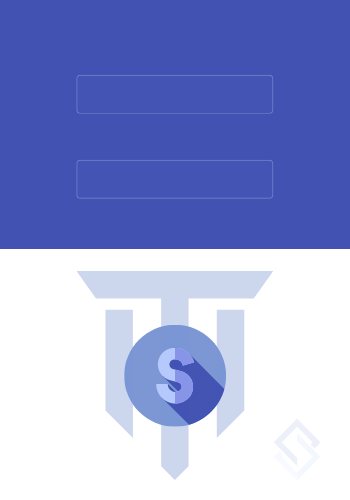
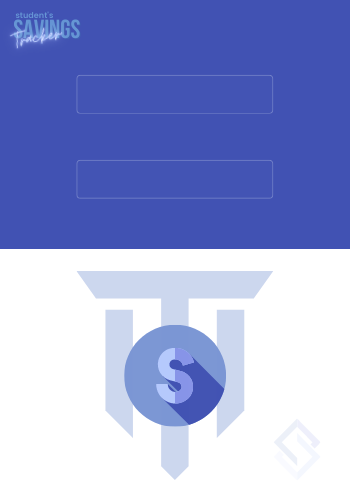
update login ui

Changed region(s): [[0.0286, 0.03, 0.2286, 0.09]]

diff --git a/app/home.py b/app/home.py
@@ -77,34 +77,34 @@ class home():
                 login.geometry('350x500')
                 login.resizable(False, False)
                 #login.configure(bg=f'#7B96D4')
-                getloginbg = PhotoImage(file="app/res/login.png")
-                setloginbg = Label(login, image=getbg).place(x=0, y=0)
+                getloginbg = PhotoImage(file = f'app/res/login.png')
+                seetloginbg = Label(login, image = getloginbg).place(x=0, y=0, relwidth=1, relheight=1)
 
                 # username label
-                space1 = Label(login,text='',bg='white').pack(side=TOP, pady=20)
-                usertext=Label(login,text='u s e r n a m e',bg='white')
+                space1 = Label(login,text='',bg='#4152B3').pack(side=TOP, pady=15)
+                usertext=Label(login,text='u s e r n a m e',bg='#4152B3', fg='white')
                 usertextfont=('Calibri',10, 'bold')
                 usertext.config(font=usertextfont)
                 usertext.pack(side=TOP)
 
                 # field for username entry
-                userfield=Entry(login,width=20,border=0)
+                userfield=Entry(login,width=20,border=0, bg='#4152B3', fg='white')
                 userfieldfont=('Calibri',13)
                 userfield.config(font=userfieldfont)
-                userfield.pack(side=TOP)
+                userfield.pack(side=TOP, pady=10)
 
                 # password label
-                space2 = Label(login,text='',bg='white').pack(side=TOP)
-                pwtext=Label(login,text='p a s s w o r d',bg='white')
+                space2 = Label(login,text='',bg='#4152B3').pack(side=TOP)
+                pwtext=Label(login,text='p a s s w o r d',bg='#4152B3',fg='white')
                 pwtextfont=('Calibri',10, 'bold')
                 pwtext.config(font=pwtextfont)
                 pwtext.pack(side=TOP)
 
                 # field for password entry
-                pwfield=Entry(login,width=20,border=0, show='*')
+                pwfield=Entry(login,width=20,border=0, bg='#4152B3', fg='white', show='*')
                 pwfieldfont=('Calibri',13)
                 pwfield.config(font=pwfieldfont)
-                pwfield.pack(side=TOP)
+                pwfield.pack(side=TOP, pady=10)
 
                 # login button
                 def confirm_log():
@@ -132,9 +132,30 @@ class home():
                             login.destroy()
                             errormsg()
 
-                login_button = Button(login, text=f'LOGIN', borderwidth=2,
+                """login_button = Button(login, text=f'LOGIN', borderwidth=2,
                 command=lambda: confirm_log())
-                login_button.pack(side=TOP, pady=10)
+                login_button.pack(side=TOP, pady=10)"""
+
+                def enterlogin(e):
+                    gethover = PhotoImage(file="app/res/logohover.png")
+                    login_button['image'] = gethover
+                    login_button.image = gethover
+                def leavelogin(e):
+                    getdefault = PhotoImage(file="app/res/logo.png")
+                    login_button['image'] = getdefault
+                    login_button.image = getdefault
+
+                clicktologin = Label(login, text=f'click logo below to log in', fg=f'white', bg=f'#4152B3', font=('Calibri',10, 'bold')).pack(side=TOP, pady=15)
+                
+                getlogo = PhotoImage(file=f'app/res/logo.png')
+                login_button = Button(login, image=getlogo, borderwidth=0,
+                command=lambda: confirm_log())
+                login_button.pack(side=BOTTOM, pady=73)
+
+                login_button.bind("<Enter>", enterlogin)
+                login_button.bind("<Leave>", leavelogin)
+
+                login.mainloop()
 
             login_account_button = Button(root, image=getlogin, borderwidth=0, bg='#4152B3',
                 command=lambda: clickLogin())
@@ -143,8 +164,6 @@ class home():
             login_account_button.bind("<Enter>", enterlogin)
             login_account_button.bind("<Leave>", leavelogin)
             # ============= end login button ui =============
-
-            # #4152B3
 
             root.mainloop()
         
